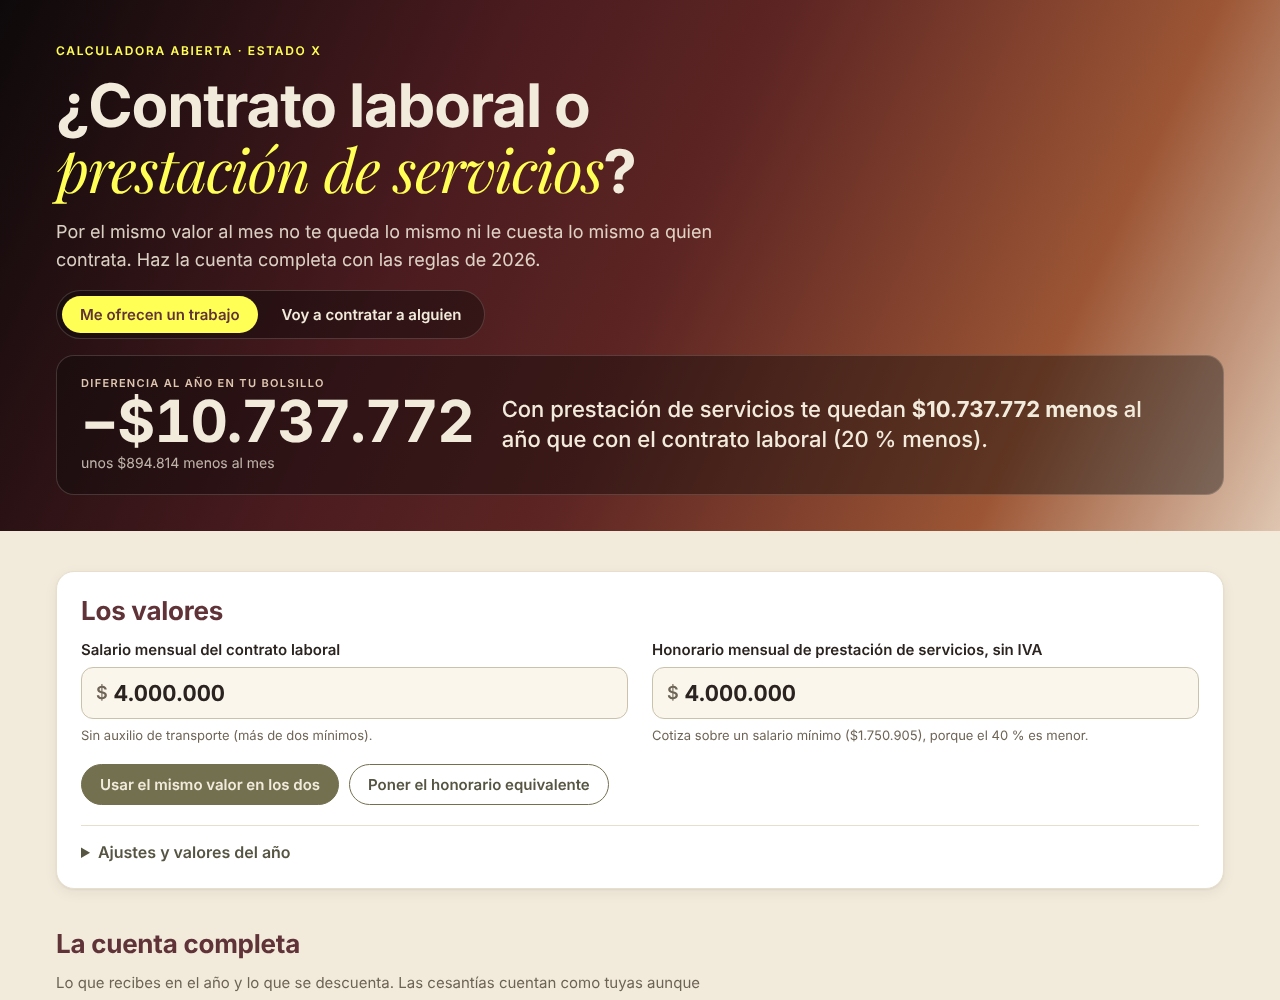
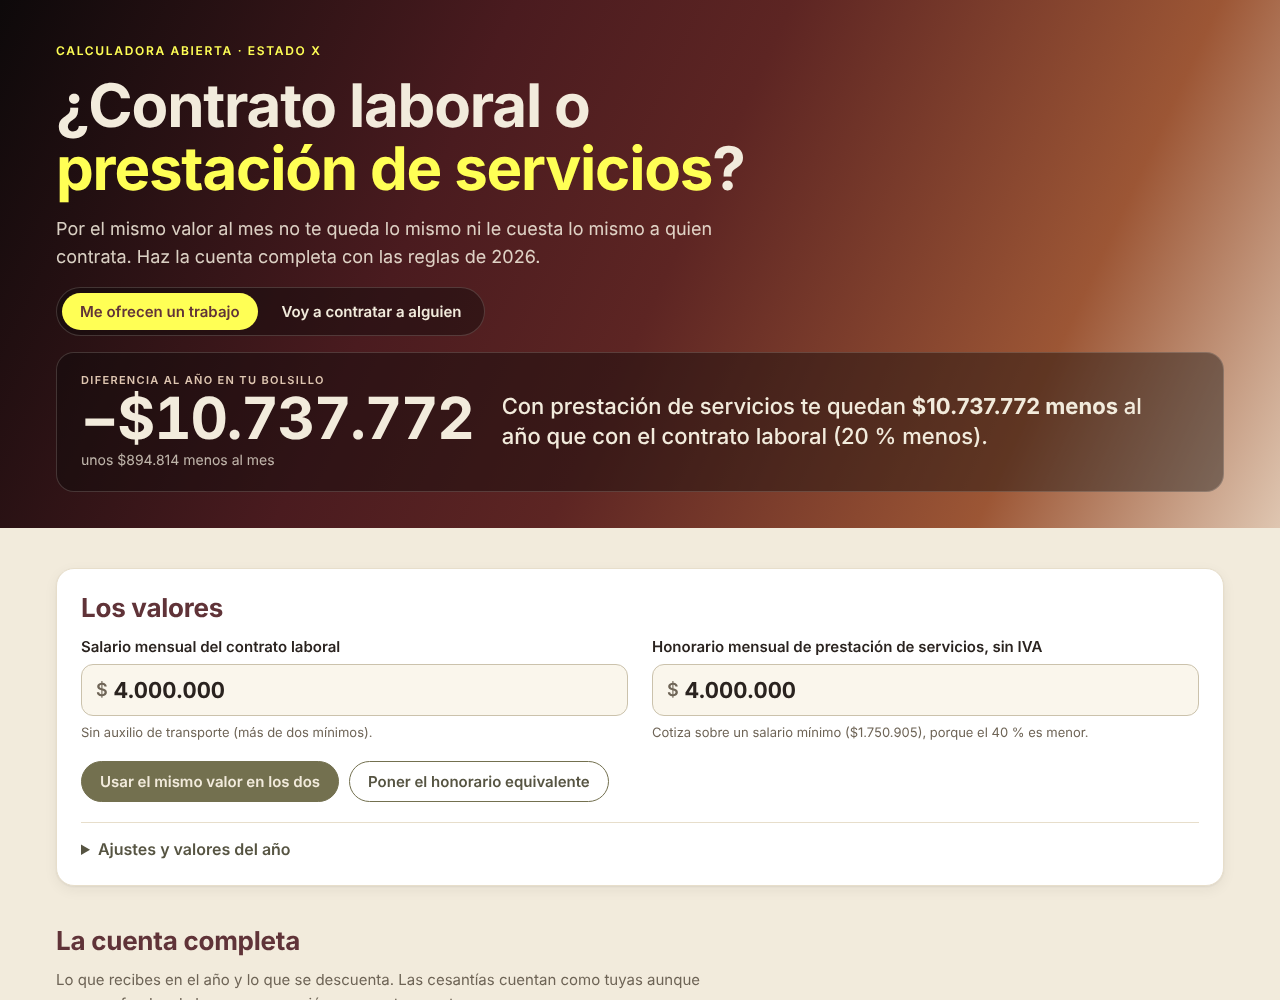
Revisión de lanzamiento 26/10/2026
- Salario mínimo, auxilio y UVT 2026 siguen vigentes (sin fallo de fondo del Consejo de Estado).
- Reforma pensional: rige el 1 de abril de 2027 según la Sentencia C-264 de 2026.
- Títulos sin cursiva y sin Playfair, como pide el design system de Estado X.
- Captura del README rehecha.

Claude-Session: https://claude.ai/code/session_01L6RgPapNMEM4wnBJHWmYfN

diff --git a/assets/estilos.css b/assets/estilos.css
@@ -9,7 +9,6 @@
   --cobre: #9c5635; --arena: #dfc6b1; --negro-calido: #0d090a;
   --display: "Neue Haas Grotesk Display", "Neue Haas Grotesk Display Pro", "Helvetica Neue", Helvetica, Arial, sans-serif;
   --sans: "Neue Haas Grotesk Text", "Neue Haas Grotesk Text Pro", "Helvetica Neue", Helvetica, Arial, sans-serif;
-  --acento: "Playfair Display", Georgia, "Times New Roman", serif;
   --r-md: 12px; --r-lg: 18px;
   --sombra: 0 1px 2px rgba(42,35,31,.06), 0 4px 14px rgba(42,35,31,.06);
   --ease: cubic-bezier(.22,1,.36,1);
@@ -30,7 +29,8 @@ a:focus-visible, button:focus-visible, input:focus-visible, select:focus-visible
 .kicker { margin: 0; font: 600 12px/1.2 var(--sans); letter-spacing: .14em; text-transform: uppercase; color: var(--cadmio); }
 .kicker--oliva { color: var(--oliva); }
 h1 { margin: 0; font: 700 clamp(34px, 6vw, 60px)/1.04 var(--display); letter-spacing: -.02em; text-wrap: balance; max-width: 20ch; }
-h1 em, .firma em { font-family: var(--acento); font-style: italic; font-weight: 400; }
+h1 em, .firma em { font-style: normal; }
+.firma em { font-weight: 600; }
 h1 em { color: var(--cadmio); }
 .banda__sub { margin: 0; max-width: 62ch; font-size: 18px; color: rgba(242,235,220,.88); }
 

diff --git a/index.html b/index.html
@@ -8,9 +8,6 @@
 <meta property="og:title" content="¿Contrato laboral o prestación de servicios?">
 <meta property="og:description" content="Haz la cuenta completa: prestaciones, aportes y retención en la fuente, para quien recibe la oferta y para quien contrata.">
 <link rel="icon" href="assets/favicon.svg" type="image/svg+xml">
-<link rel="preconnect" href="https://fonts.googleapis.com">
-<link rel="preconnect" href="https://fonts.gstatic.com" crossorigin>
-<link rel="stylesheet" href="https://fonts.googleapis.com/css2?family=Playfair+Display:ital,wght@0,500;0,700;1,400&display=swap">
 <link rel="stylesheet" href="assets/estilos.css">
 </head>
 <body>

diff --git a/README.md b/README.md
@@ -59,13 +59,13 @@ En el contrato laboral, la retención se calcula sobre los doce salarios y los d
 - No incluye salario integral, horas extra, recargos, dotación, indemnizaciones, IVA ni ICA del contratista, ni aportes voluntarios.
 - Compara costos y no dice qué figura corresponde. Si hay subordinación, horario y continuidad, la ley trata la relación como un contrato laboral.
 - Las equivalencias son aproximadas en los saltos que trae la ley: al pasar de dos mínimos se pierde el auxilio de transporte, desde cuatro entra el Fondo de Solidaridad Pensional y la tabla de retención tiene escalones.
-- La reforma pensional (Ley 2381 de 2024) empieza a regir el 1 de abril de 2027 y cambiará parte de estas reglas.
+- La reforma pensional (Ley 2381 de 2024) empieza a regir el 1 de abril de 2027, según la Sentencia C-264 de 2026 de la Corte Constitucional, y cambiará parte de estas reglas.
 
 ### Crédito
 
 Inspirada en **[worth-calculator](https://github.com/Zippland/worth-calculator)** de Zylan (licencia MIT) y su idea de calcular cuánto vale de verdad un trabajo más allá del salario. Esta es una versión nueva, escrita desde cero para las reglas de Colombia. No reutiliza código de worth-calculator.
 
-Las normas y valores son de sus autores: Congreso de la República, Gobierno nacional, DIAN y UGPP. Tipografía de acento: [Playfair Display](https://fonts.google.com/specimen/Playfair+Display) (SIL Open Font License).
+Las normas y valores son de sus autores: Congreso de la República, Gobierno nacional, DIAN y UGPP.
 
 Hecho por **[Estado X](https://estadox.com)** · Código con licencia MIT.
 
@@ -111,12 +111,12 @@ The rules, values and legal sources are listed in the Spanish table above. In sh
 - Integral salary, overtime, surcharges, work clothing, severance pay for dismissal, the contractor's VAT or ICA, and voluntary contributions are not included.
 - It compares costs; it does not say which contract applies. If there is subordination, a schedule and continuity, the law treats the relationship as employment.
 - Equivalents are approximate around the law's steps: the transport allowance ends above two minimum wages, the Solidarity Fund starts at four, and the withholding table has jumps.
-- The pension reform (Law 2381 of 2024) takes effect on April 1, 2027 and will change some of these rules.
+- The pension reform (Law 2381 of 2024) takes effect on April 1, 2027, per Constitutional Court ruling C-264 of 2026, and will change some of these rules.
 
 ### Credit
 
 Inspired by **[worth-calculator](https://github.com/Zippland/worth-calculator)** by Zylan (MIT license) and its idea of measuring what a job is really worth beyond the salary. This is a new version, written from scratch for Colombian rules. It does not reuse worth-calculator code.
 
-Laws and values belong to their publishers: the Colombian Congress and Government, DIAN and UGPP. Accent typeface: [Playfair Display](https://fonts.google.com/specimen/Playfair+Display) (SIL Open Font License).
+Laws and values belong to their publishers: the Colombian Congress and Government, DIAN and UGPP.
 
 Made by **[Estado X](https://estadox.com)** · Code under the MIT license.
